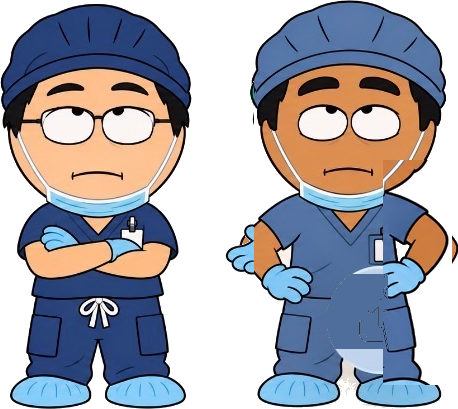
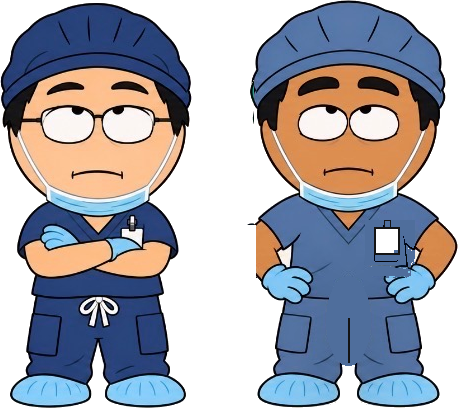
Fix character spacing above tube line and clean up illustration artifacts

diff --git a/assets/site.js b/assets/site.js
@@ -218,7 +218,7 @@ function problemSvg(){
 
   /* Surgeon Character Duo: Frustrated / annoyed expressions with traditional Yankauer clog */
   s+='<g class="diag-char char-problem">'+
-     '<image href="assets/img/surgeon-problem.webp" x="335" y="70" width="185" height="165" preserveAspectRatio="xMidYMid meet"/>'+
+     '<image href="assets/img/surgeon-problem.webp" x="295" y="42" width="166" height="148" preserveAspectRatio="xMidYMid meet"/>'+
      '</g>';
 
   /* Callout 01: Clean layout with zero overlaps */
@@ -336,7 +336,7 @@ function flowSvg(){
 
   /* Surgeon Character Duo: Happy / celebrating high-five with TruFlo Ortho continuous flow */
   s+='<g class="diag-char char-solution">'+
-     '<image href="assets/img/surgeon-solution.webp" x="280" y="225" width="180" height="165" preserveAspectRatio="xMidYMid meet"/>'+
+     '<image href="assets/img/surgeon-solution.webp" x="285" y="235" width="164" height="150" preserveAspectRatio="xMidYMid meet"/>'+
      '</g>';
 
   /* =======================================================================
